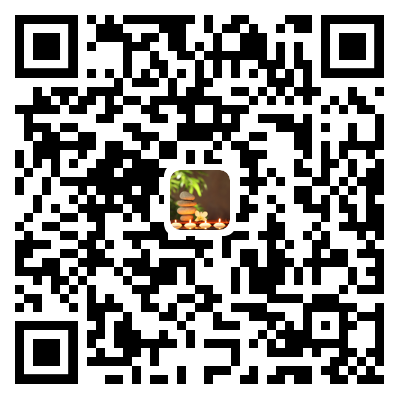
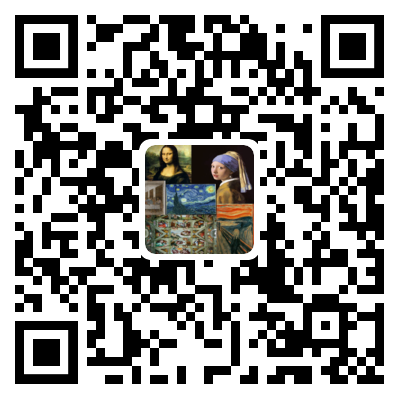
添加参数

diff --git a/support/index.html b/support/index.html
@@ -28,7 +28,7 @@
     <div class="container">
         <h1 class="pull-left">Paintings and Painters</h1>
         <p class="pull-right">
-            Updated：2021-06-20        </p>
+            Updated：2021-06-24        </p>
     </div>
 </div>
 <div class="banxin">
@@ -38,7 +38,7 @@
     </div>
             
             <div style="display:block;margin:0 auto;width:180px;" id="wx_btn1">
-            <a href="https://itunes.apple.com/cn/app/id1573407165?mt=8" style="display:block;margin:0 auto;width:180px;" >
+            <a href="https://itunes.apple.com/cn/app/id1573754873?mt=8" style="display:block;margin:0 auto;width:180px;" >
                 <img src="images/iph.png" alt="" class="center-block margin-bottom60"/>
             </a>
          </div>
@@ -57,17 +57,15 @@
         <h2>App introduction</h2>
         <div class="dsp margin-bottom60">
             <section>
-               Do you enjoy listening to peaceful music during a spa visit or yoga session? Relaxing spa music  provide calming music as background music for healing meditation and stress relief. Enhanced with delta waves, our healing music is deeply comforting as massage music, stress relief music and relaxing spa music. Spa music is ambient calm music, instrumental music, background music or Zen music that is relaxing and soft. Our calm music creates an atmosphere of soothing relaxation to allow listeners to unwind and relax while at your spa or simply to meditate and relax to Zen music at home. This peaceful music can be used to support yoga, meditation, stress relief and other holistic treatments that inspire a Zen state of mind. This deep sleep music is used as healing music and sleeping music at many wellness spas to help listeners relax, meditate and sleep. Enjoy this relaxing music for sleep meditation or as yoga music, massage music, meditation music, spa music or sleep music. 
+               Online Art Gallery.
+Huge collection of fine art reproductions
            </section>
  
-           <section>Relaxing spa music can also be used as massage music, meditation music, calming music or yoga music. Because it is such calm music, it supports autogenic training, a variety of meditation practices and can be used as stress relief music or Zen music. As part of your sleep meditation practice, this instrumental music acts as sleeping music and deep sleep music and will help you engage in meditation for sleep. Our sleep music will also ensure you relax, rest deeply and wake up refreshed. Our soft music makes for a relaxed mind, whether you are using it as music for sleep or stress relief, yoga music or simply as calming music.</section>
+           <section>All our impressions, fantasies, architectural forms, objects, and landscapes miraculously find their display in the creative works of great masters and famous artists. It may be said without exaggeration that any art gallery saturates the viewer a mysterious flavor of high art and unique shades of the inner world of picture creator.</section>
 
-           <section>Relaxing spa music and sleep music is the peaceful music needed to support holistic therapies and treatments, such as healing meditation, meditation for sleep and meditation for anxiety. Play our Zen music as background music for an ambient atmosphere of soothing relaxation and calm. Our peaceful music provides the ideal soundscape for a wide variety of Zen spa experiences. </section> 
+           <section>Decorative, monumental, icon painting, cyclorama, miniature, and diorama – all that diversity gives its piece of the world, character and mood to everyone. Despite of this, the steps for creating of yet another reproduction of paintings by famous artists is still enigmatic and have a specific mysterious haze. Perhaps it is this that enables the viewer enthusiastically enjoy rich palette, unusual forms and sublime the depth of the work subject for each time.</section> 
 
-           <section>Relaxing spa music provides healing music to complement spa therapies, yoga, meditation for sleep and meditation for anxiety. This soft music, played as background music, slows down and relaxes the mind. Playing our sleep music during a spa reiki session, healing meditation, chakra balancing treatment or any other revitalising new age therapy, will create a Zen atmosphere of soothing relaxation and wellness. Our calm music, with embedded delta waves, brings stress relief, healing meditation and deep relaxation.
-
-Download the app now to find out more about our selection of Relaxing Music, Deep Sleep Music, Study Music and Meditation Music.
-            </section>
+           <section>Being a true admirer of an artist, like the first time ever, you feel delight to watch how on the surface of the canvas new images and the relentless flow of paint reveal. The artist though breathes life into those paints and they are playfully falling to the canvas of a new creation, sometimes spreading widely and freely and sometimes splashing out and gently laying down with layers. Every brushstroke on reproductions of famous paintings creates a new element. It may be materialized in defiant and indefatigable nature of the ‘Storm off the coast of Nice’ by Ivan Aivazovsky, or soft and warm tones of the ‘Swiss landscape with horses’ by Alexei Savrasov.</section>
         </div>
     </div>
     <div>
@@ -106,7 +104,7 @@ Download the app now to find out more about our selection of Relaxing Music, Dee
 </div>
 <div>
     <div class="footer" style="text-align: center;background: #fff;">
-        Copyright © Relaxing Spa Music Technical support:<a href="mailto:relaxing_spa_music@gmail.com" style="color:rgb(0, 128, 214);">relaxing_spa_music@gmail.com</a>
+        Copyright © Paintings and Painters Technical support:<a href="mailto:paintings_painters@gmail.com" style="color:rgb(0, 128, 214);">rpaintings_painters@gmail.com</a>
     </div><!--/row-fluid-->
 </div>
 <div class="wxtip" id="JweixinTip">
